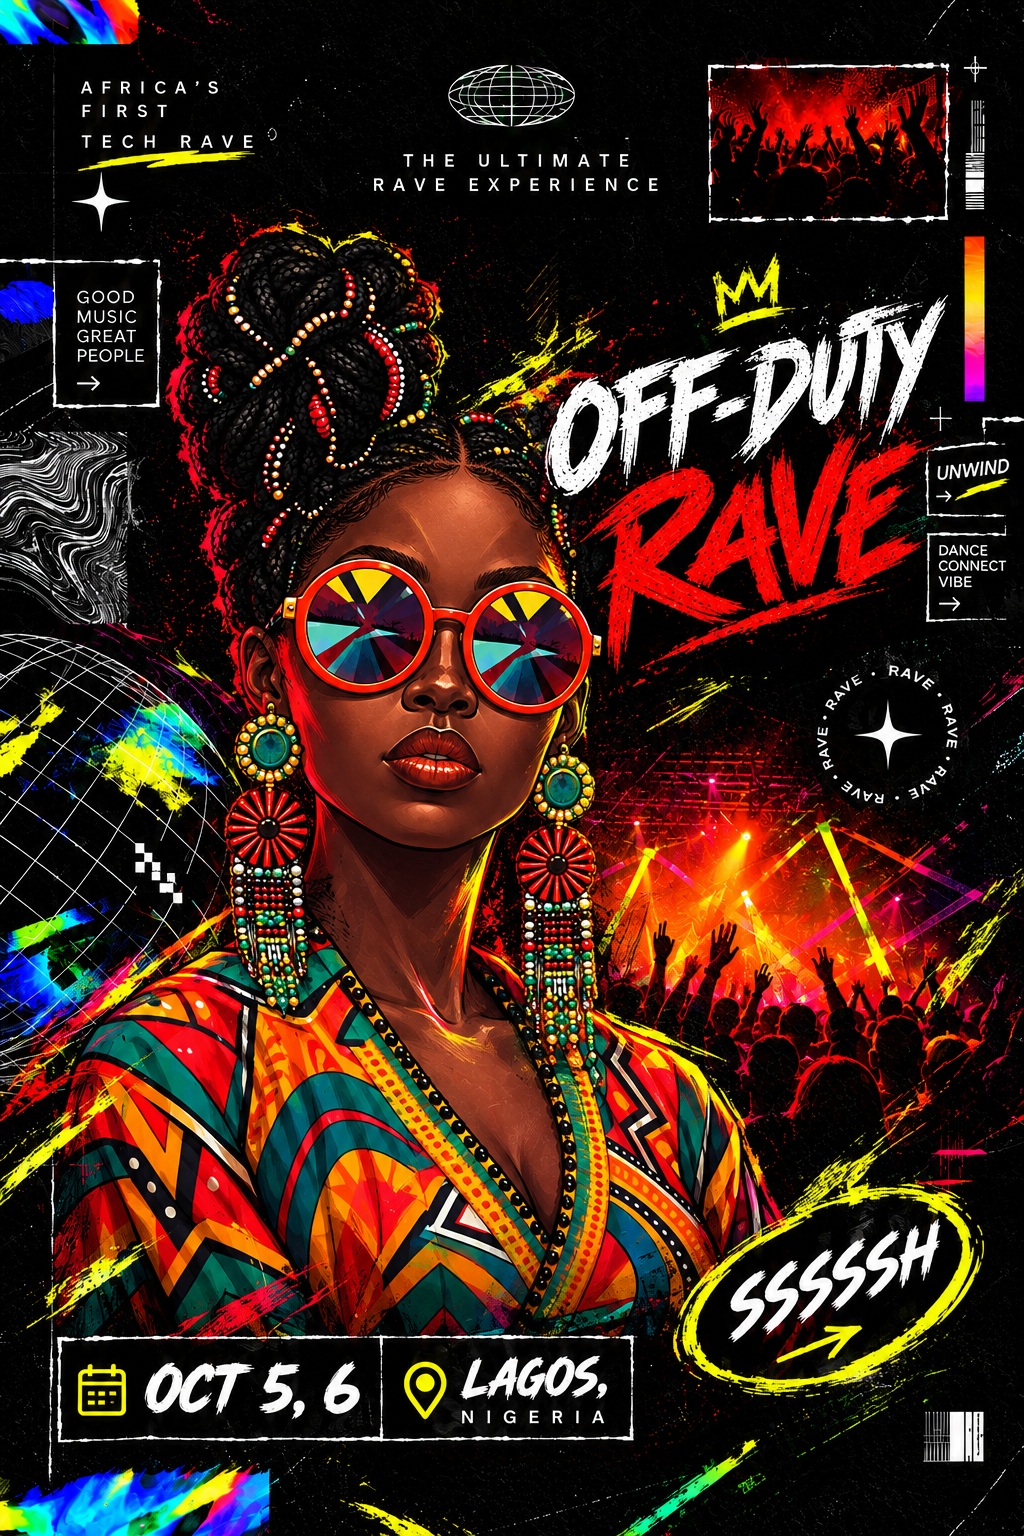
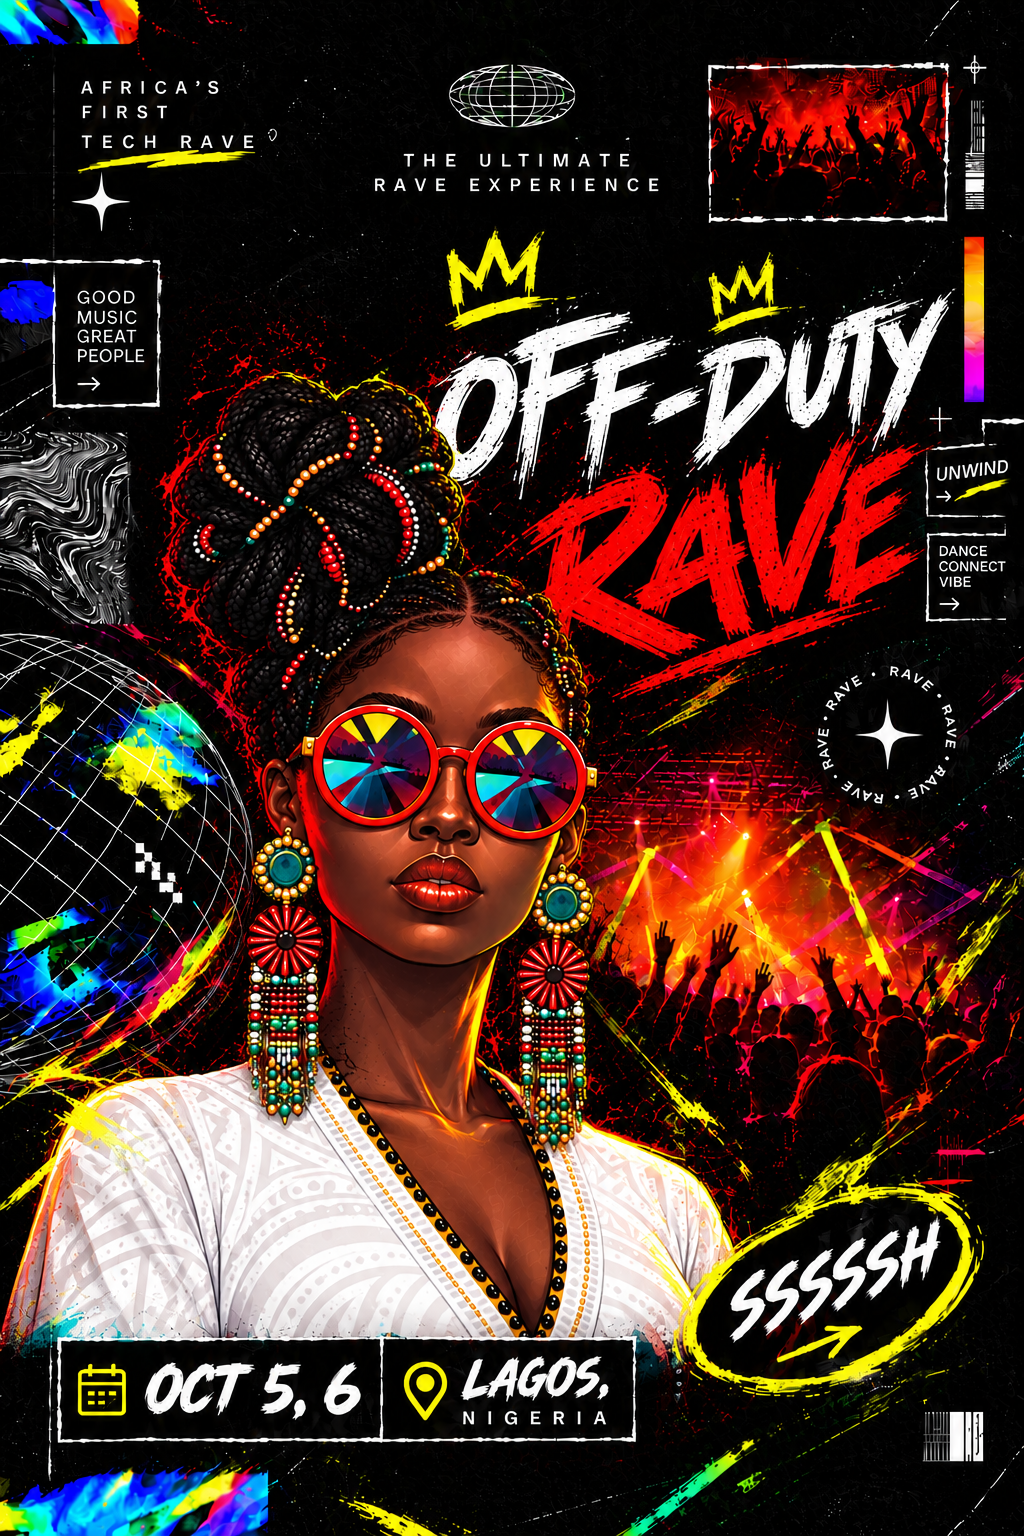
fix lady dress

diff --git a/index.html b/index.html
@@ -109,9 +109,11 @@
     .ticket-form button:disabled { cursor: wait; opacity: .6; }
     .ticket-form-status { min-height: 1.3em; color: var(--gold-bright); font-size: .8rem; }
     .audio-dock { position: fixed; right: 1rem; bottom: 1rem; z-index: 15; display: flex; align-items: center; gap: .45rem; padding: .45rem; border: 1px solid rgba(240,198,92,.35); background: rgba(8,8,8,.88); box-shadow: 0 12px 32px rgba(0,0,0,.35); backdrop-filter: blur(12px); }
+    .audio-dock-speaker { color: var(--gold-bright); font-size: .9rem; line-height: 1; }
     .audio-dock-label { margin: 0 .35rem; color: var(--gold-bright); font-size: .62rem; font-weight: 700; letter-spacing: .12em; text-transform: uppercase; }
     .audio-dock button { min-width: 34px; min-height: 30px; padding: .35rem .5rem; border: 1px solid rgba(255,255,255,.2); background: rgba(255,255,255,.04); color: var(--fog); cursor: pointer; font-size: .64rem; font-weight: 700; letter-spacing: .04em; text-transform: uppercase; }
     .audio-dock button:hover, .audio-dock button:focus-visible { border-color: var(--gold-bright); color: var(--gold-bright); outline: 0; }
+    @media (max-width: 700px) { .audio-dock { right: .65rem; bottom: .65rem; gap: .25rem; padding: .28rem; } .audio-dock-label { display: none; } .audio-dock-speaker { padding: 0 .2rem; font-size: .78rem; } .audio-dock button { min-width: 30px; min-height: 26px; padding: .25rem .4rem; font-size: .58rem; } }
     .rave-gate { position: fixed; inset: 0; z-index: 100; display: grid; place-items: center; padding: 1.5rem; background: #050505; color: var(--fog); overflow: hidden; }
     .rave-gate[hidden] { display: none; }
     .rave-gate::before { content: ''; position: absolute; inset: 0; opacity: .3; background: linear-gradient(rgba(240,198,92,.18) 1px, transparent 1px), linear-gradient(90deg, rgba(240,198,92,.18) 1px, transparent 1px); background-size: 42px 42px; mask-image: radial-gradient(ellipse at center, black, transparent 78%); }
@@ -308,10 +310,8 @@
     <source src="https://files.freemusicarchive.org/storage-freemusicarchive-org/tracks/mWQc996VFTCrKBAUXTALYquul4ih93QHzsTDNqlO.mp3" type="audio/mpeg" />
   </audio>
   <div class="audio-dock" aria-label="Rave music controls">
-    <span class="audio-dock-label">Amapiano rave · Tiga Maine</span>
+    <span class="audio-dock-speaker" aria-hidden="true">&#128266;</span>
     <button id="audio-play" type="button" aria-label="Pause rave beat">Pause</button>
-    <button id="audio-mute" type="button" aria-label="Turn sound on">Sound off</button>
-    <button id="audio-stop" type="button" aria-label="Stop rave beat">Stop</button>
   </div>
   <nav id="nav">
     <div class="container nav-inner">
@@ -590,8 +590,6 @@
     const raveGateEnter = document.getElementById('rave-gate-enter');
     const raveAudio = document.getElementById('rave-audio');
     const audioPlay = document.getElementById('audio-play');
-    const audioMute = document.getElementById('audio-mute');
-    const audioStop = document.getElementById('audio-stop');
     const navLinks = document.getElementById('nav-links');
     const mobileToggle = document.getElementById('mobile-toggle');
     window.addEventListener('scroll', () => nav.classList.toggle('scrolled', window.scrollY > 30), { passive: true });
@@ -614,8 +612,6 @@
       const isPlaying = !raveAudio.paused && !raveAudio.ended;
       audioPlay.textContent = isPlaying ? 'Pause' : 'Play';
       audioPlay.setAttribute('aria-label', isPlaying ? 'Pause rave beat' : 'Play rave beat');
-      audioMute.textContent = raveAudio.muted ? 'Sound off' : 'Sound on';
-      audioMute.setAttribute('aria-label', raveAudio.muted ? 'Turn sound on' : 'Mute rave beat');
     }
 
     raveAudio.play().catch(() => {
@@ -645,20 +641,10 @@
       raveGate.style.setProperty('--cursor-x', '0');
       raveGate.style.setProperty('--cursor-y', '0');
     });
-    ['play', 'pause', 'volumechange', 'ended'].forEach(eventName => raveAudio.addEventListener(eventName, syncAudioControls));
+    ['play', 'pause', 'ended'].forEach(eventName => raveAudio.addEventListener(eventName, syncAudioControls));
     audioPlay.addEventListener('click', () => {
       if (raveAudio.paused) raveAudio.play().catch(() => {});
       else raveAudio.pause();
-    });
-    audioMute.addEventListener('click', () => {
-      raveAudio.muted = !raveAudio.muted;
-      if (!raveAudio.muted) raveAudio.play().catch(() => {});
-      syncAudioControls();
-    });
-    audioStop.addEventListener('click', () => {
-      raveAudio.pause();
-      raveAudio.currentTime = 0;
-      syncAudioControls();
     });
     syncAudioControls();
 
